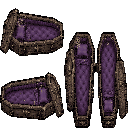
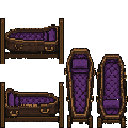
Coffin bed: Codex redraw on oakbed's exact layout
Lying views are a flat side view on a low stand, standing views a top-down
open coffin inside the 32 px columns; mask unchanged (identical quadrant
bounds to oakbed_mask). Reviewed cut by cut against oakbed.

diff --git a/CHANGELOG.md b/CHANGELOG.md
@@ -28,6 +28,9 @@ All notable changes to this project are documented here. Format loosely follows
   uploads go to `art-inbox/`.
 
 ### Fixed
+- **Coffin bed redrawn on the oak bed's layout.** Lying views are a flat side
+  view on a low stand instead of a squat diagonal box with an open lid;
+  standing views are a top-down open coffin that stays inside its columns.
 - **Nightfell and Skystone walls: windows.** The nightfell window front was a
   free-standing figure with no wall around it; it is now vanilla stonewall's
   window opening (posts, sill, bars with see-through gaps) in nightfell
